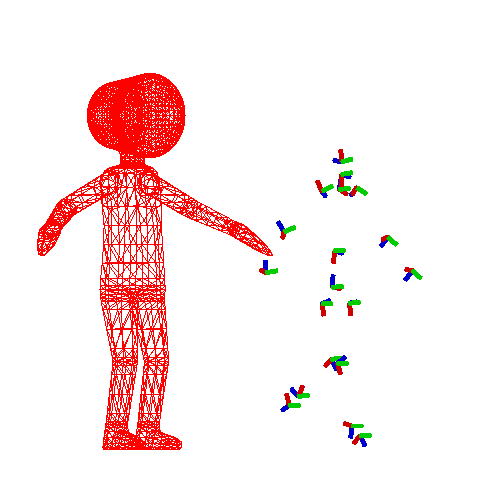
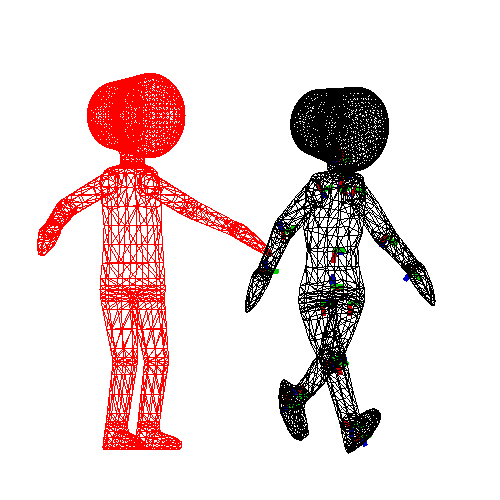
linear blend skinning. done task08

Changed region(s): [[0.48, 0.15, 0.87, 0.9]]

diff --git a/task08/main.py b/task08/main.py
@@ -108,8 +108,7 @@ class HelloWorld(mglw.WindowConfig):
                 # write a few lines of codes to compute p1 using the linear blend skinning
                 # hint: use np.matmul for matrix multiplication
                 # hint: assume that rig weights w add up to one
-
-                # p1 += ???
+                p1 += w * np.matmul(globalTransformation, np.matmul(inverseBindingMatrix, p0))
 
             self.vtx2xyz_def[i_vtx] = p1[:3]  # from homogeneous coordinates to the Cartesian coordinates
 
